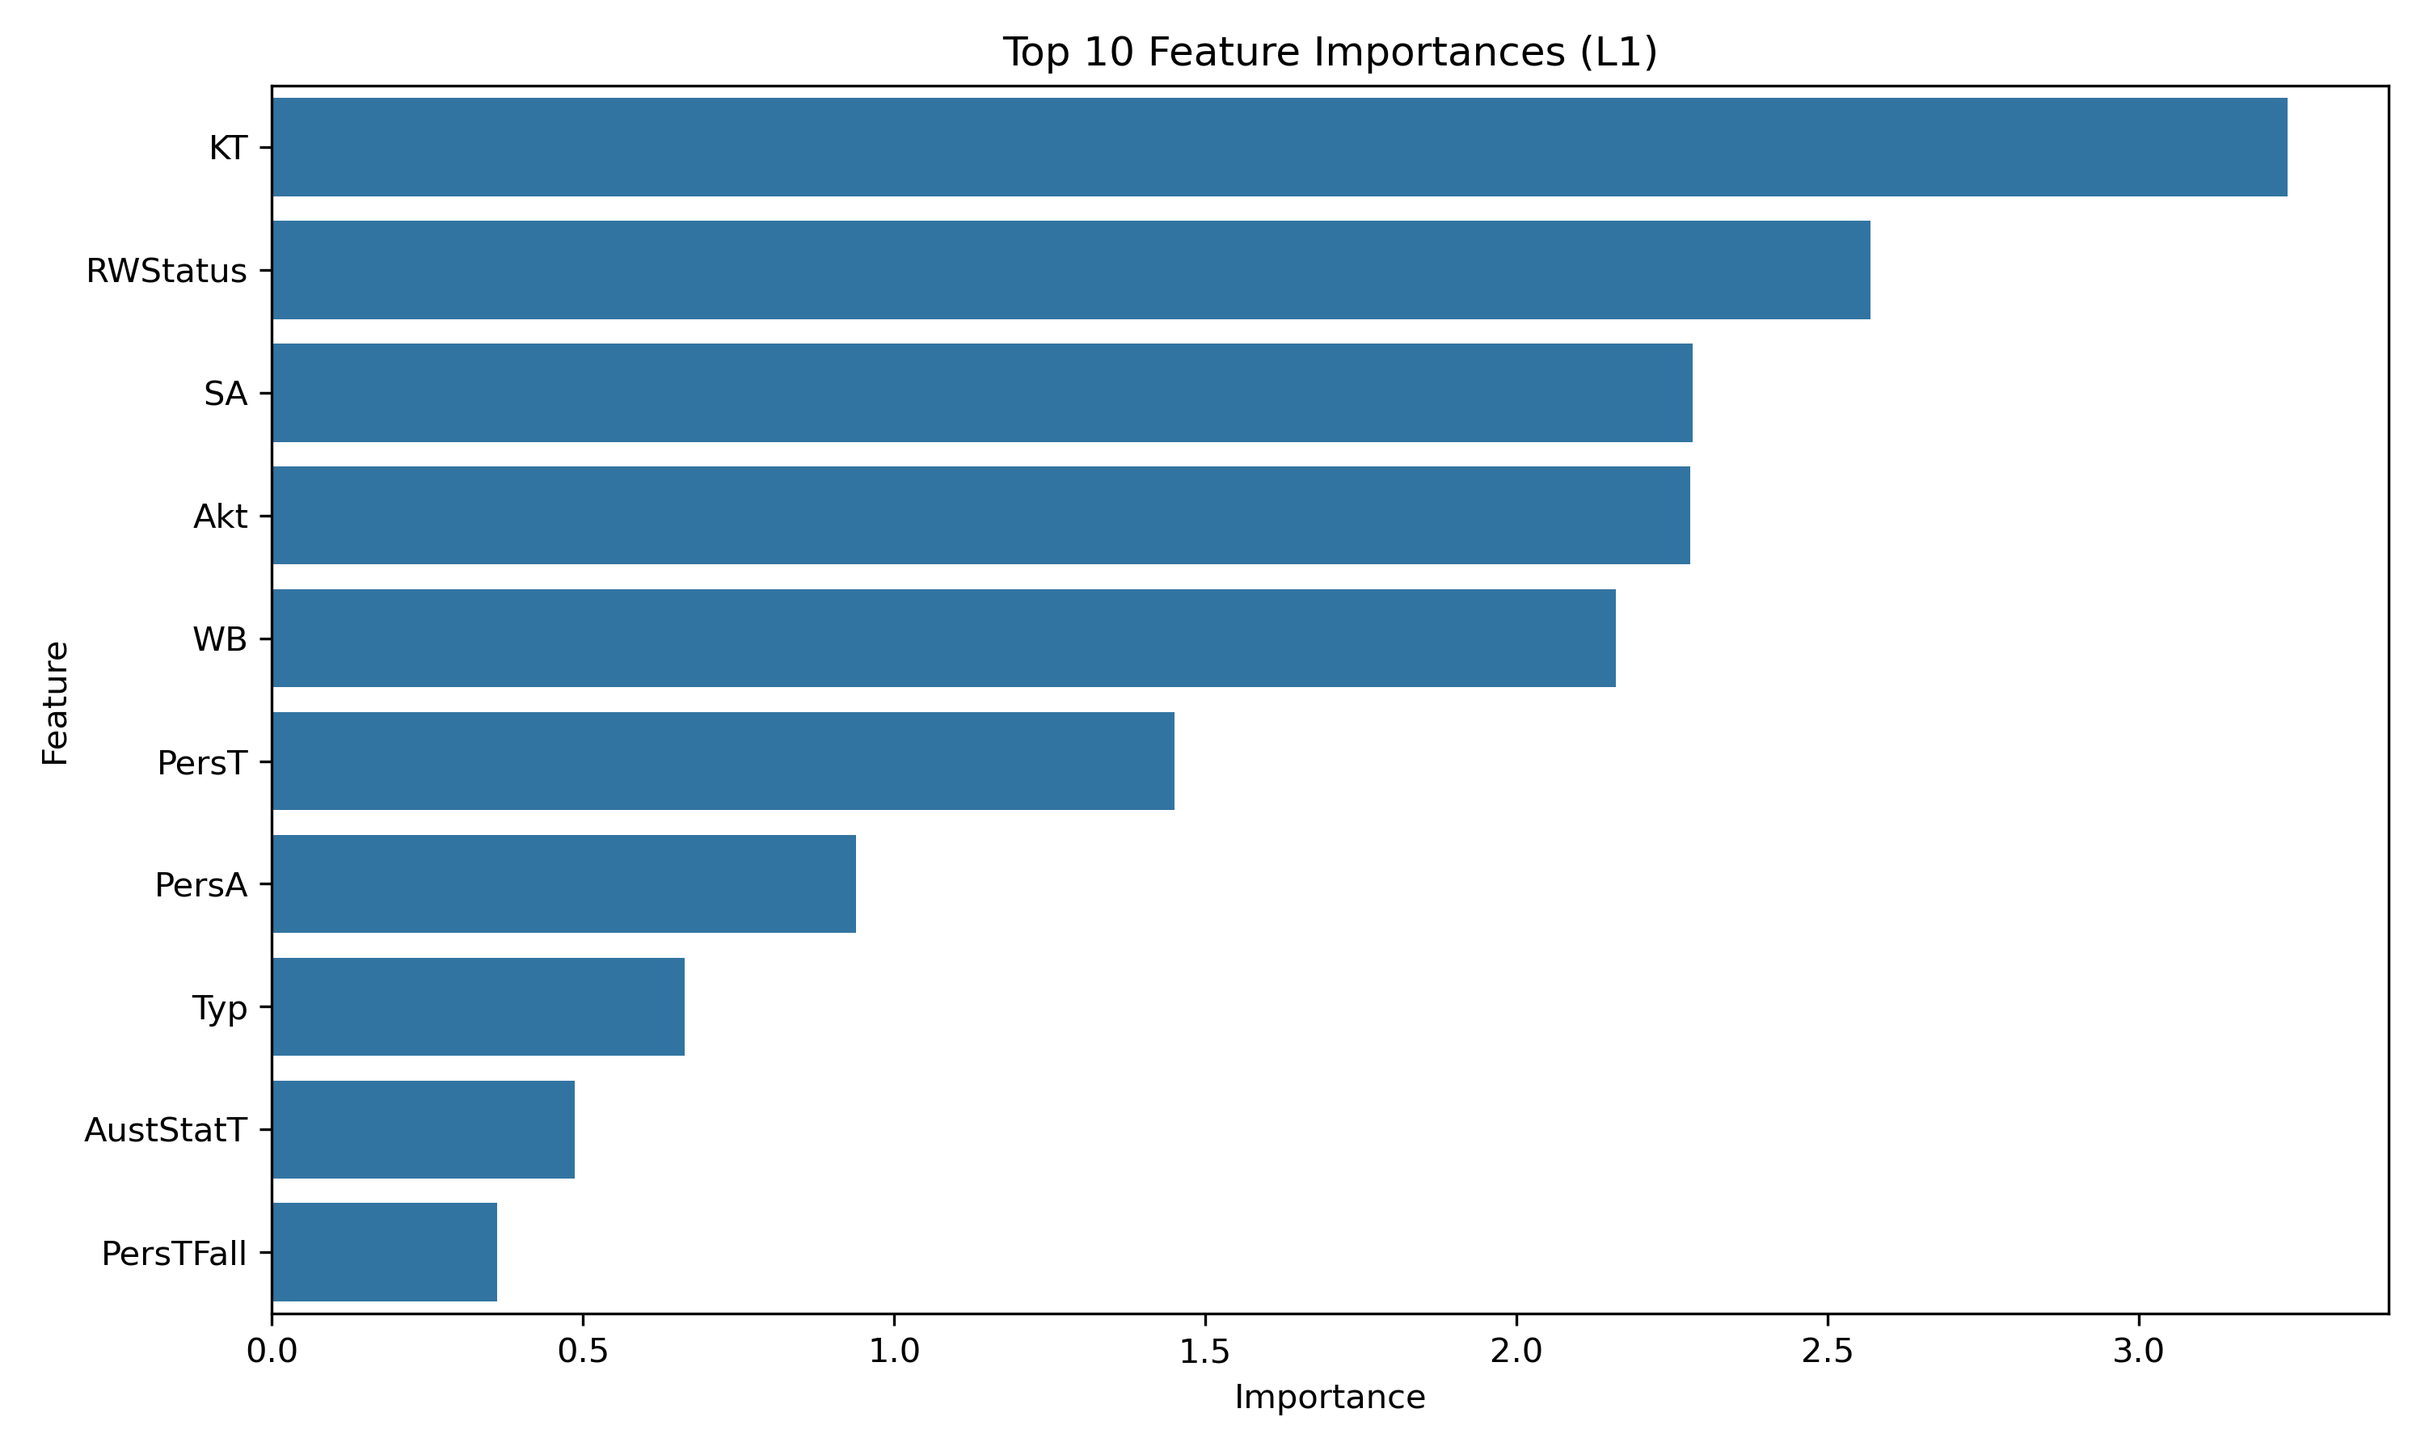
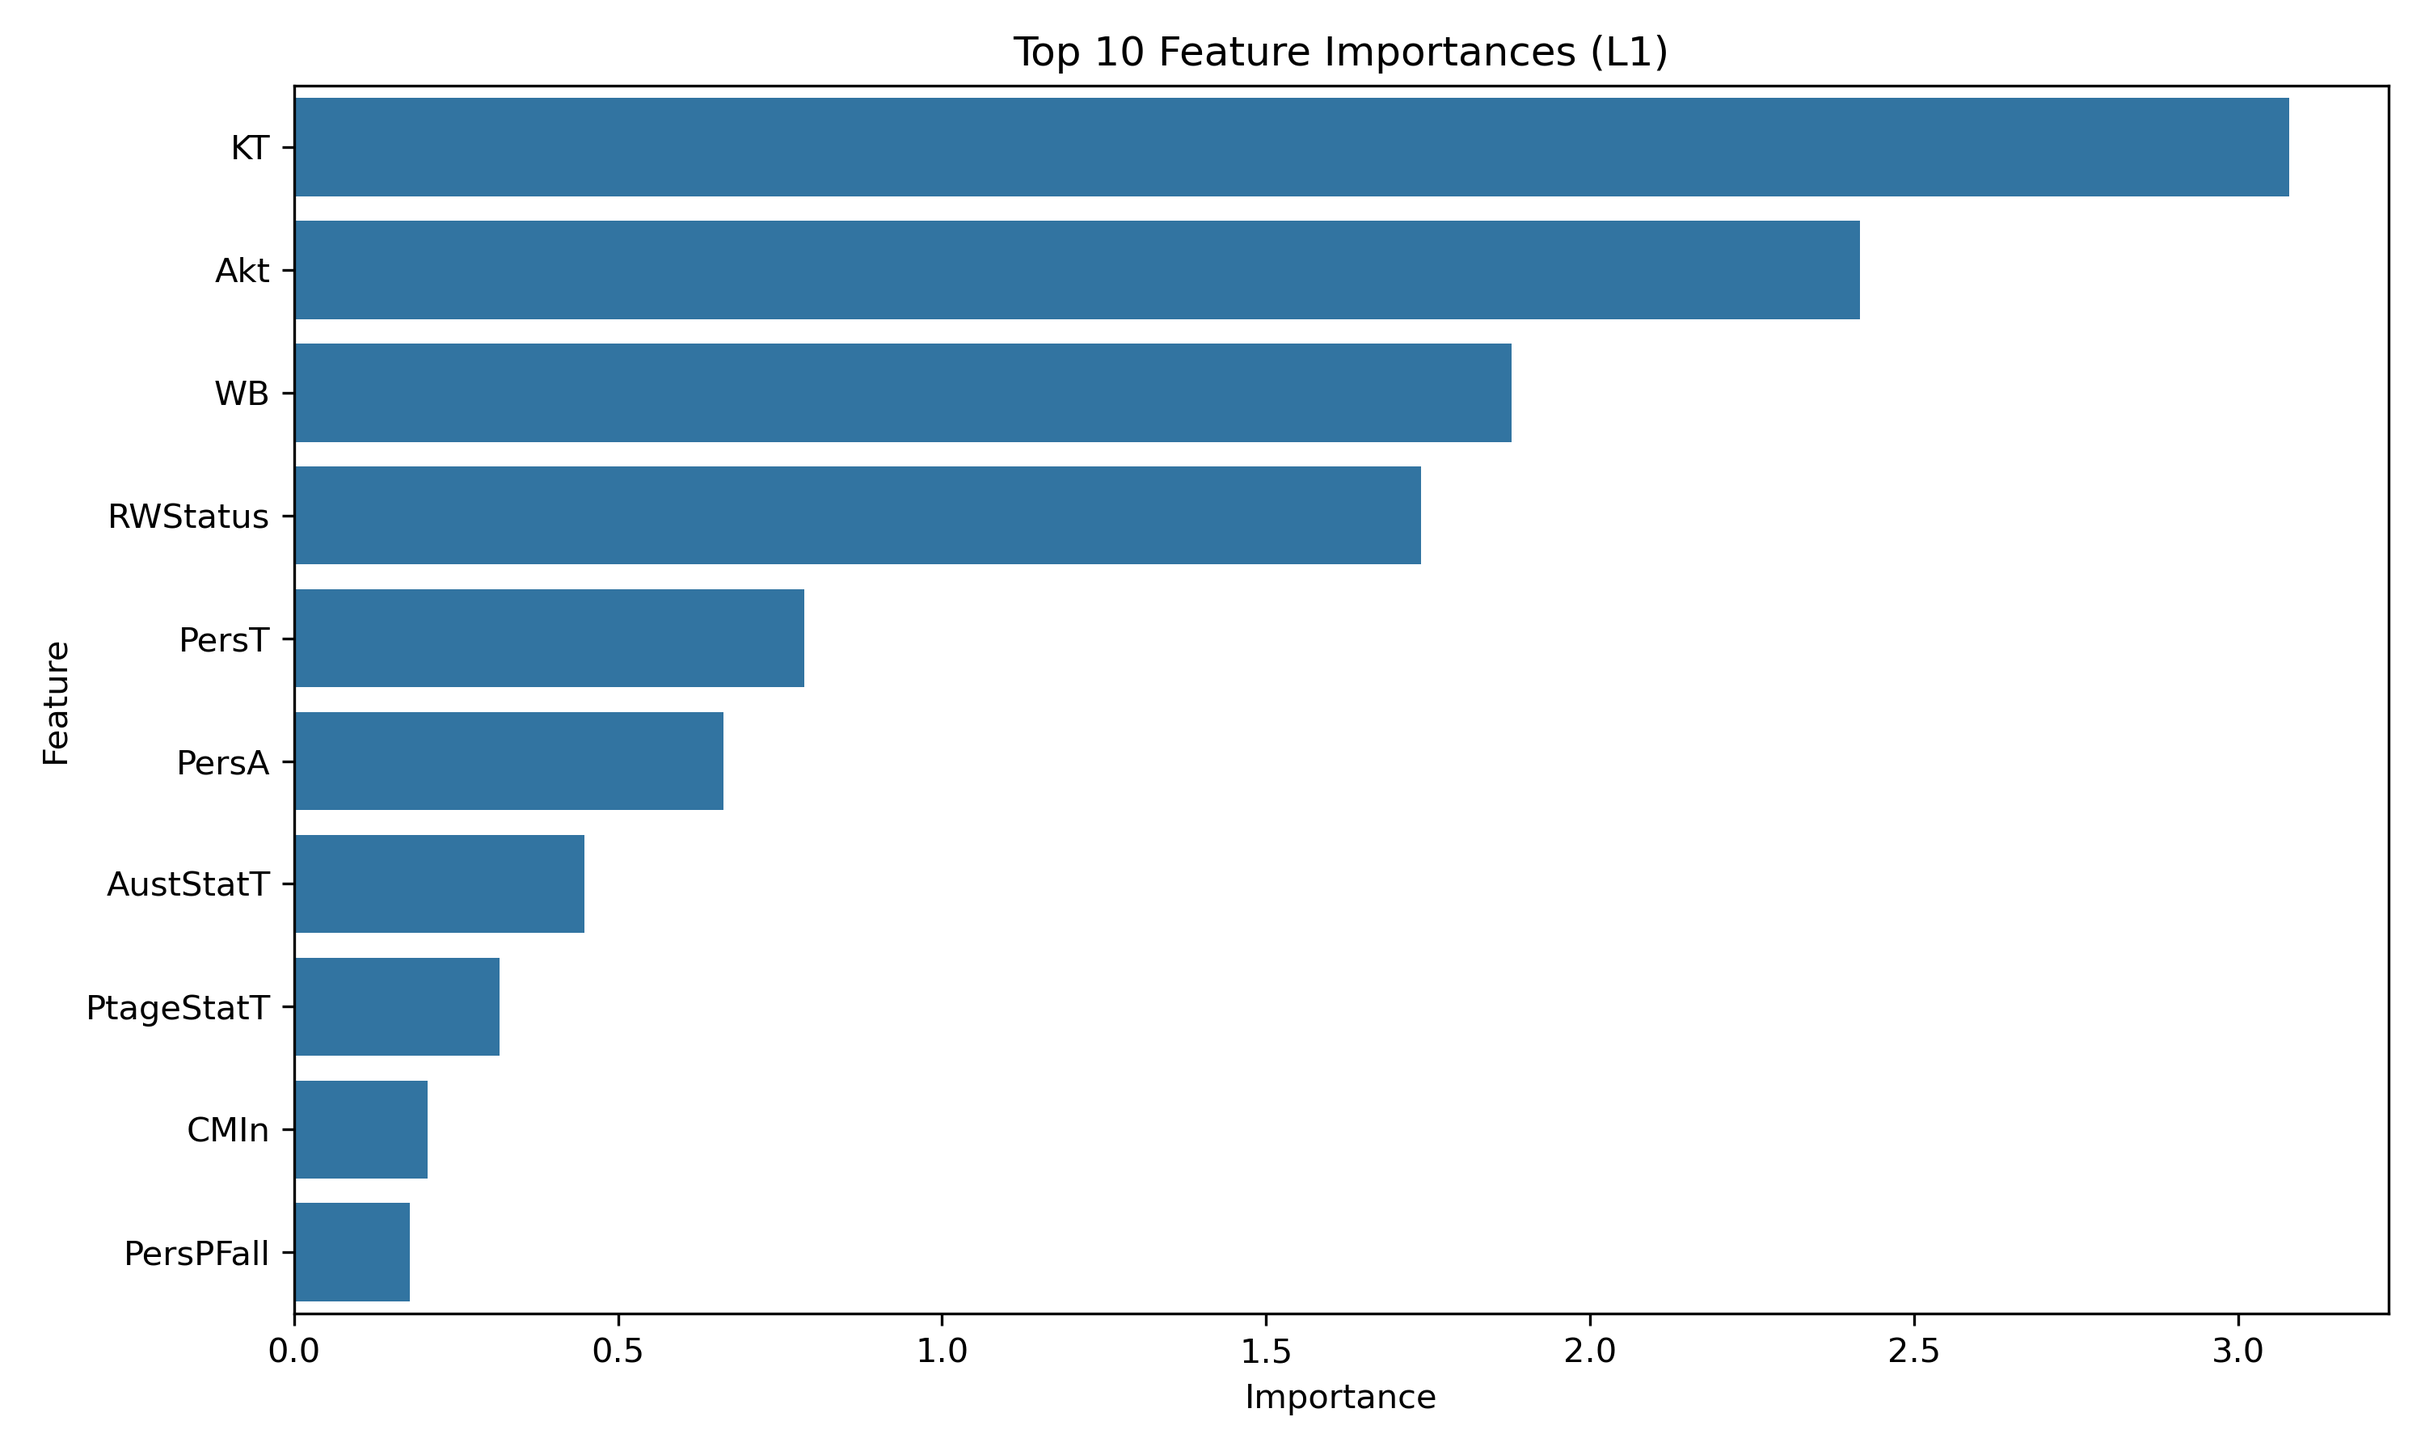
-

diff --git a/Logistic_Regression.py b/Logistic_Regression.py
@@ -20,9 +20,6 @@ from sklearn.model_selection import KFold
 
 
 
-#Transforming object col into category
-#data[cat_features] = data[cat_features].astype('category')
-
 ####################### SPLITTING DATA ####################################################
 X = data[features]
 y = data[label]
@@ -37,7 +34,7 @@ else:
     stratify_col = y
 
 X_train, X_test, y_train, y_test = train_test_split(
-    X, y, test_size=0.2, random_state=10, stratify= stratify_col)  #for all years also stratify years
+    X, y, test_size=0.2, random_state=10, stratify= stratify_col)  #straticatio over years and label
 
 
 ############################  MISSING DATA HANDLING ###########################################
@@ -56,72 +53,80 @@ for i in X_train[num_features]:
 X_train[cat_features] = X_train[cat_features].astype('category')
 X_test[cat_features] = X_test[cat_features].astype('category')
 
-######################### ONE HOT ENCODING ##################################################################
-"""
-X_train = pd.get_dummies(X_train, columns=cat_features, drop_first=True)
+#********************************************** ENCODING *******************************************************************
+encoding = input("One Hot Encoding or Target Encoding? (Answer with OHE or TE)")
 
-X_test = pd.get_dummies(X_test, columns=cat_features, drop_first=True)
-X_test = X_test.reindex(columns=X_train.columns, fill_value=0)
-"""
+if encoding == "OHE":
+######################### ONE HOT ENCODING ##################################################################
+
+    X_train = pd.get_dummies(X_train, columns=cat_features, drop_first=True)
+
+    X_test = pd.get_dummies(X_test, columns=cat_features, drop_first=True)
+    X_test = X_test.reindex(columns=X_train.columns, fill_value=0)
 
 ########################## ALTERNATIVE -> TARGET ENCODING ##########################################################
-def target_encode_feature(train_series, test_series, target, n_splits=5, alpha=5):
-    # Initialize KFold
-    kf = KFold(n_splits=n_splits, shuffle=True, random_state=42)
+elif encoding == "TE":
+    def target_encode_feature(train_series, test_series, target, n_splits=5, alpha=5):
+        # Initialize KFold
+        kf = KFold(n_splits=n_splits, shuffle=True, random_state=42)
 
-    # Converting series to numpy arrays to avoid categorical dtype issues
-    train_encoded = np.zeros(len(train_series))
-    test_encoded = np.zeros(len(test_series))
+        # Converting series to numpy arrays to avoid categorical dtype issues
+        train_encoded = np.zeros(len(train_series))
+        test_encoded = np.zeros(len(test_series))
 
-    # Global mean for smoothing and handling unseen categories
-    global_mean = target.mean()
+        # Global mean for smoothing and handling unseen categories
+        global_mean = target.mean()
 
-    # k-fold target encoding
-    for train_idx, val_idx in kf.split(train_series):
-        # Get current fold data
-        fold_train = train_series.iloc[train_idx]
-        fold_val = train_series.iloc[val_idx]
-        fold_target = target.iloc[train_idx]
+        # k-fold target encoding
+        for train_idx, val_idx in kf.split(train_series):
+            # Get current fold data
+            fold_train = train_series.iloc[train_idx]
+            fold_val = train_series.iloc[val_idx]
+            fold_target = target.iloc[train_idx]
 
-        # Calculating means for each category with smoothing
+            # Calculating means for each category with smoothing
+            category_means = {}
+            for category in fold_train.unique():
+                cat_idx = fold_train == category
+                n = cat_idx.sum()
+                cat_mean = fold_target[cat_idx].mean()
+                # Apply smoothing
+                category_means[category] = (cat_mean * n + global_mean * alpha) / (n + alpha)
+
+            #Apply encoding
+            for category, mean_value in category_means.items():
+                train_encoded[val_idx[fold_val == category]] = mean_value
+            # Fill unseen categories with global mean
+            train_encoded[val_idx[~fold_val.isin(category_means.keys())]] = global_mean
+
+        # Encode test set using all training data
         category_means = {}
-        for category in fold_train.unique():
-            cat_idx = fold_train == category
+        for category in train_series.unique():
+            cat_idx = train_series == category
             n = cat_idx.sum()
-            cat_mean = fold_target[cat_idx].mean()
-            # Apply smoothing
+            cat_mean = target[cat_idx].mean()
             category_means[category] = (cat_mean * n + global_mean * alpha) / (n + alpha)
 
-        #Apply encoding
+        # Apply encoding to test set
         for category, mean_value in category_means.items():
-            train_encoded[val_idx[fold_val == category]] = mean_value
+            test_encoded[test_series == category] = mean_value
         # Fill unseen categories with global mean
-        train_encoded[val_idx[~fold_val.isin(category_means.keys())]] = global_mean
+        test_encoded[~test_series.isin(category_means.keys())] = global_mean
 
-    # Encode test set using all training data
-    category_means = {}
-    for category in train_series.unique():
-        cat_idx = train_series == category
-        n = cat_idx.sum()
-        cat_mean = target[cat_idx].mean()
-        category_means[category] = (cat_mean * n + global_mean * alpha) / (n + alpha)
-
-    # Apply encoding to test set
-    for category, mean_value in category_means.items():
-        test_encoded[test_series == category] = mean_value
-    # Fill unseen categories with global mean
-    test_encoded[~test_series.isin(category_means.keys())] = global_mean
-
-    return train_encoded, test_encoded
+        return train_encoded, test_encoded
 
 
-# Apply target encoding to each categorical feature
-for feature in cat_features:
-    X_train[feature], X_test[feature] = target_encode_feature(
-        X_train[feature],
-        X_test[feature],
-        y_train
-    )
+    # Apply target encoding to each categorical feature
+    for feature in cat_features:
+        X_train[feature], X_test[feature] = target_encode_feature(
+            X_train[feature],
+            X_test[feature],
+            y_train
+        )
+
+else:
+    print("Invalid input. Please enter 'OHE' or 'TE'. ")
+    exit()
 
 #######################  SCALING (after splitting!!) ###############################################################
 sc = StandardScaler()
@@ -176,7 +181,7 @@ pvalues = UVFS_Selector.pvalues_  #p-values for each feature
 
 
 UVFS_selected_features = UVFS_Selector.get_feature_names_out(input_features=X_train.columns)
-print("Selected Features (UVFS):", UVFS_selected_features)
+print("Selected Features (UVFS):\n", UVFS_selected_features)
 
 
 # Visualization of top selected features' importance
@@ -197,19 +202,21 @@ clf_LR_UVFS = LogisticRegression(random_state=10, class_weight='balanced')
 clf_LR_UVFS.fit(X_UVFS, y_train)
 
 #Coefficients of top k features
+"""
 coefficients = clf_LR_UVFS.coef_[0]
 for feature, coef in zip(UVFS_selected_features, coefficients):
     print(f"Feature: {feature}, Coefficient: {coef}")
+"""
 
 # Evaluation
 df_performance.loc['LR (test,UVFS)',:] = eval_Performance(y_test, X_UVFS_test, clf_LR_UVFS, clf_name = 'LR_UVFS')
 df_performance.loc['LR (train,UVFS)',:] = eval_Performance(y_train, X_UVFS, clf_LR_UVFS, clf_name = 'LR_UVFS (train)')
-print(df_performance)
+
 
 
 #L1 REGULARIZATION
 param_grid = {
-    "C": [0.01, 0.1, 1.0, 10.0],  # Regularization strength
+    "C": [0.01, 0.1, 1.0],  # Regularization strength
     "penalty": ["l1"],  # L1 regularization
     "solver": ["liblinear"]  # Solver for logistic regression
 }
@@ -217,8 +224,8 @@ clf_LR_L1 = GridSearchCV(
     LogisticRegression(random_state=10, class_weight='balanced'),
     param_grid,
     cv=5 ,
-    #scoring='balanced_accuracy',
-    scoring ='roc_auc'
+    scoring='balanced_accuracy',
+    #scoring ='roc_auc'
 )
 
 # Fit GridSearchCV to training data
@@ -228,9 +235,9 @@ clf_LR_L1.fit(X_train, y_train)
 best_L1_model = clf_LR_L1.best_estimator_
 
 n_used_features = np.sum(best_L1_model.coef_ != 0)
-print(f"Number of features used (L1): {n_used_features}")
+print(f"Number of features used (L1):\n {n_used_features}")
 
-print("Best parameters (L1):", clf_LR_L1.best_params_)
+print("Best parameters (L1):\n", clf_LR_L1.best_params_)
 
 # Feature Importance
 coefs = best_L1_model.coef_[0]  # Get coefficients from the model
@@ -260,10 +267,10 @@ df_performance.loc['LR (train,L1)', :] = eval_Performance(y_train, X_train, best
 
 #Extract selected features
 L1_selected_features = []
-for col, coef in zip(X.columns, best_L1_model.coef_[0]):
+for col, coef in zip(X_train.columns, best_L1_model.coef_[0]):
     if coef != 0:  # Keep only features with non-zero coefficients
         L1_selected_features.append(col)
-print(f"Selected features: {L1_selected_features}")
+print(f"Selected features (L1):\n {L1_selected_features}")
 
 
 
@@ -271,7 +278,7 @@ print(f"Selected features: {L1_selected_features}")
 ############################## L2 REGULARIZATION ###########################################################
 
 param_grid = {
-    "C": [0.01, 0.1, 1.0, 10.0],  # Regularization strength
+    "C": [0.01, 0.1, 1.0],  # Regularization strength
     "penalty": ["l2"],  #L2 regularization
     "solver": ["liblinear"]  # Solver for logistic regression
 }
@@ -279,17 +286,17 @@ clf_LR_L2 = GridSearchCV(
     LogisticRegression(random_state=10, class_weight='balanced'),
     param_grid,
     cv=5,
-    #scoring='balanced_accuracy'
-    scoring='roc_auc'
+    scoring='balanced_accuracy'
+    #scoring='roc_auc'
 )
 
 clf_LR_L2.fit(X_train, y_train)
 
 best_L2_model = clf_LR_L2.best_estimator_
 n_used_features_L2 = np.sum(best_L2_model.coef_ != 0)
-print(f"Number of features used (nonzero weights): {n_used_features_L2}")
+print(f"Number of features used (L2): {n_used_features_L2}")
 
-print("Best parameters (L2):", clf_LR_L2.best_params_)
+print("Best parameters (L2):\n", clf_LR_L2.best_params_)
 
 # Feature Importance
 coefs = best_L2_model.coef_[0]  # Get coefficients from the model
@@ -324,6 +331,13 @@ df_performance.loc['LR (train,L2)', :] = eval_Performance(y_train, X_train, clf_
 #for feature, coef in zip(L1_selected_features, best_L2_model.coef_[0]):
 #    print(f"Feature: {feature}, Coefficient: {coef}")
 
+#Extract selected features
+L2_selected_features = []
+for col, coef in zip(X_train.columns, best_L2_model.coef_[0]):
+    if coef != 0:  # Keep only features with non-zero coefficients
+        L2_selected_features.append(col)
+print(f"Selected features (L1): \n {L2_selected_features}")
+
 
 ########################## Recursive Feature Eliminiation with Cross-Validation #####################################
 
@@ -344,7 +358,7 @@ print(f"Optimal number of features (RFE): {rfe_cv.n_features_}")
 
 # Get the features selected
 rfe_selected_features = X_train.columns[rfe_cv.support_]
-print(f"Selected features: {list(rfe_selected_features)}")
+print(f"Selected features (RFE): \n {list(rfe_selected_features)}")
 
 # Feature Importance
 coefs = rfe_cv.estimator_.coef_[0]  # coefficients from the fitted estimator
@@ -366,7 +380,7 @@ file_path = os.path.join("output", file_name)
 plt.savefig(file_path, dpi=300)
 
 
-
+print("Performance Evaluation:")
 print(df_performance)
 
 
@@ -384,6 +398,26 @@ plt.grid(True, axis='y', linestyle='--')
 plt.show()
 #plt.savefig('../output/LR_Accuracy.png')
 
+#new
+custom_color = ['#D55E00', '#D55E00','#0072B2', '#0072B2','#009E73', '#009E73', '#CC79A7', '#CC79A7','#E69F00', '#E69F00']
+
+
+#Plot the bar chart using plt.bar instead of df.plot,
+plt.figure(figsize=(10, 6))
+x_pos = range(len(df_performance['accuracy']))  # x positions for the bars
+plt.bar(x_pos, df_performance['accuracy'], color=custom_color, width=0.5)  # Use custom_color for each bar
+
+#plot labels
+plt.title('Performance Comparison of Models with All vs Selected Features')
+plt.ylabel('Accuracy')
+plt.xticks(x_pos, df_performance.index, rotation=45)  # Set x-axis labels
+plt.ylim([0, 1])
+plt.grid(True, axis='y', linestyle='--')
+plt.tight_layout()
+
+
+#Show the plot,
+plt.show()
 
 #F1-Score
 df_performance[['f1']].plot(kind='bar', figsize=(15, 12), color='teal')
@@ -429,6 +463,14 @@ y_score_l2 = best_L2_model.predict_proba(X_test)[:, 1]
 fpr_l2, tpr_l2, _ = roc_curve(y_test, y_score_l2)
 roc_auc_l2 = auc(fpr_l2, tpr_l2)
 plt.plot(fpr_l2, tpr_l2, lw=2, label=f'LogReg+L2 (AUC = {roc_auc_l2:.2f})')
+
+# Logistic Regression with RFE
+y_score_rfe = rfe_cv.predict_proba(X_test)[:, 1]
+fpr_rfe, tpr_rfe, _ = roc_curve(y_test, y_score_rfe)
+roc_auc_rfe = auc(fpr_rfe, tpr_rfe)
+plt.plot(fpr_rfe, tpr_rfe, lw=2, label=f'LogReg+RFE (AUC = {roc_auc_rfe:.2f})')
+
+
 
 plt.plot([0, 1], [0, 1], color='gray', lw=2, linestyle='--', label='Chance')
 

diff --git a/Data_Preparation.py b/Data_Preparation.py
@@ -56,6 +56,7 @@ features.remove("Ort")
 data = data.drop(columns=["SA"])
 features.remove("SA")
 
+
 #Dropping Columns with 100% Missing Data
 #columns to drop
 columns_to_drop = [i for i in features if data[i].isna().sum() == len(data[i])]
